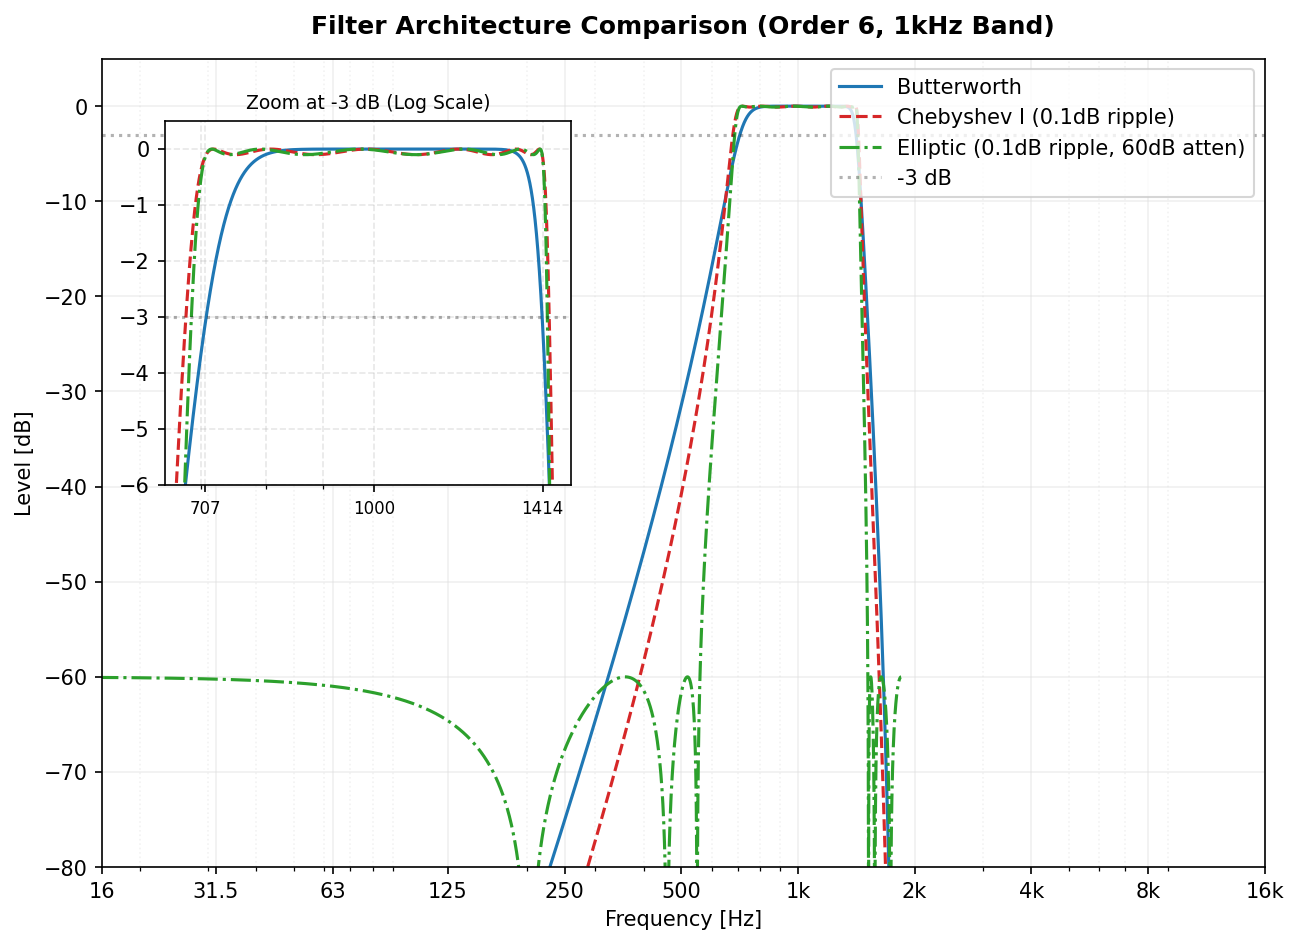
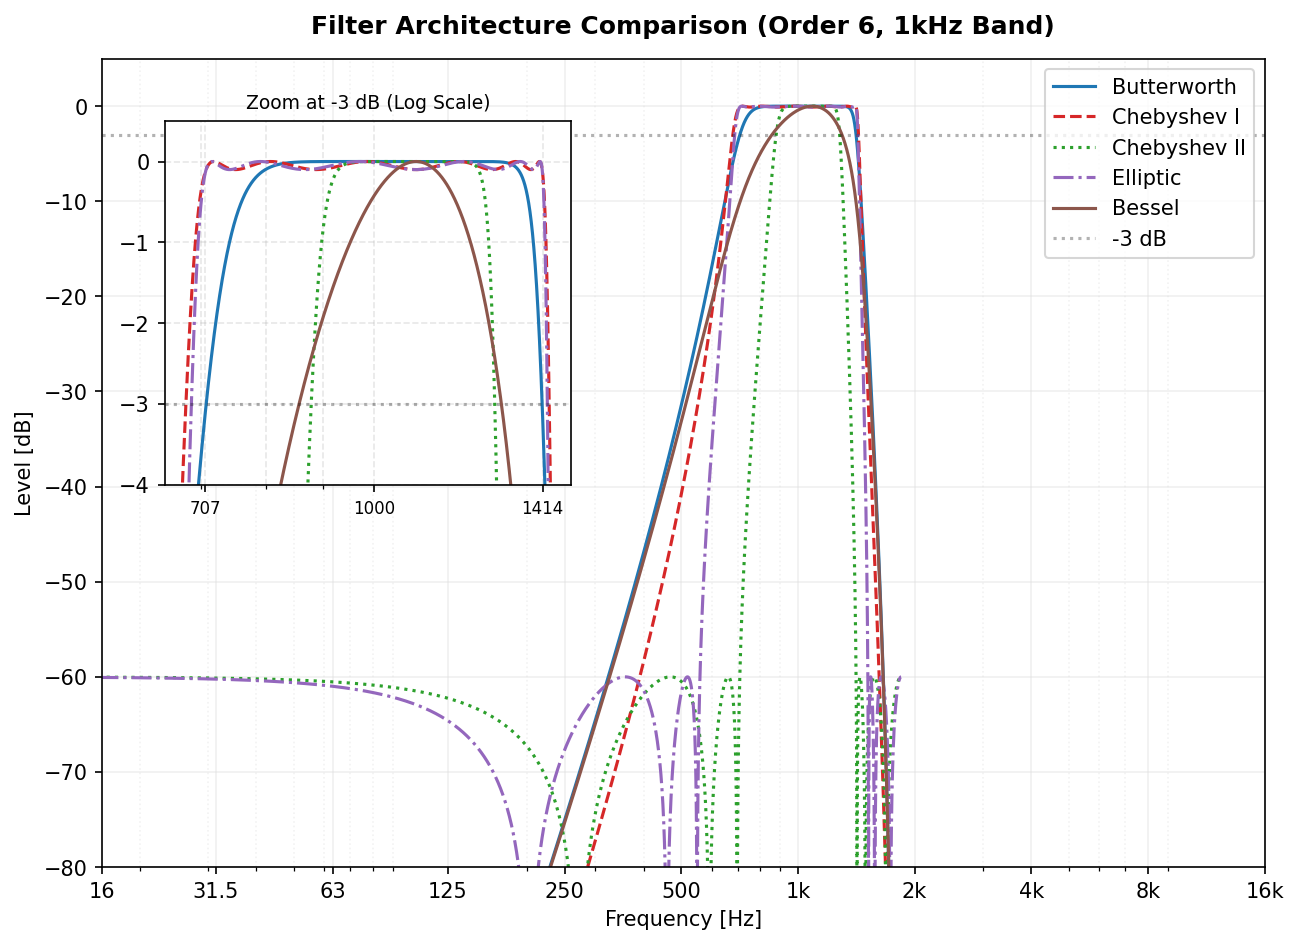
docs: include all filter types in comparison plot and adjust zoom range
- Added Chebyshev II and Bessel to the architecture comparison.
- Adjusted zoom inset y-axis limit to -4 dB for better detail at the crossover point.
- Maintained consistent 45% inset height.

diff --git a/generate_graphs.py b/generate_graphs.py
@@ -64,8 +64,10 @@ def generate_filter_type_comparison(output_dir: str) -> None:
     
     filters = [
         ("butter", "Butterworth", COLOR_PRIMARY, "-"),
-        ("cheby1", "Chebyshev I (0.1dB ripple)", COLOR_SECONDARY, "--"),
-        ("ellip", "Elliptic (0.1dB ripple, 60dB atten)", COLOR_TERTIARY, "-."),
+        ("cheby1", "Chebyshev I", COLOR_SECONDARY, "--"),
+        ("cheby2", "Chebyshev II", COLOR_TERTIARY, ":"),
+        ("ellip", "Elliptic", "#9467bd", "-."),
+        ("bessel", "Bessel", "#8c564b", "-"),
     ]
     
     fig, ax = plt.subplots(figsize=(10, 7))
@@ -95,7 +97,7 @@ def generate_filter_type_comparison(output_dir: str) -> None:
     
     # Sub-plot styling (Zoom around 1kHz and -3dB)
     axins.set_xlim(650, 1500)
-    axins.set_ylim(-6, 0.5)  # As requested: from -6 to 0.5
+    axins.set_ylim(-4, 0.5)  # Adjusted: from -4 to 0.5
     axins.grid(True, which="both", alpha=0.3)
     axins.set_title("Zoom at -3 dB (Log Scale)", fontsize=9)
 
